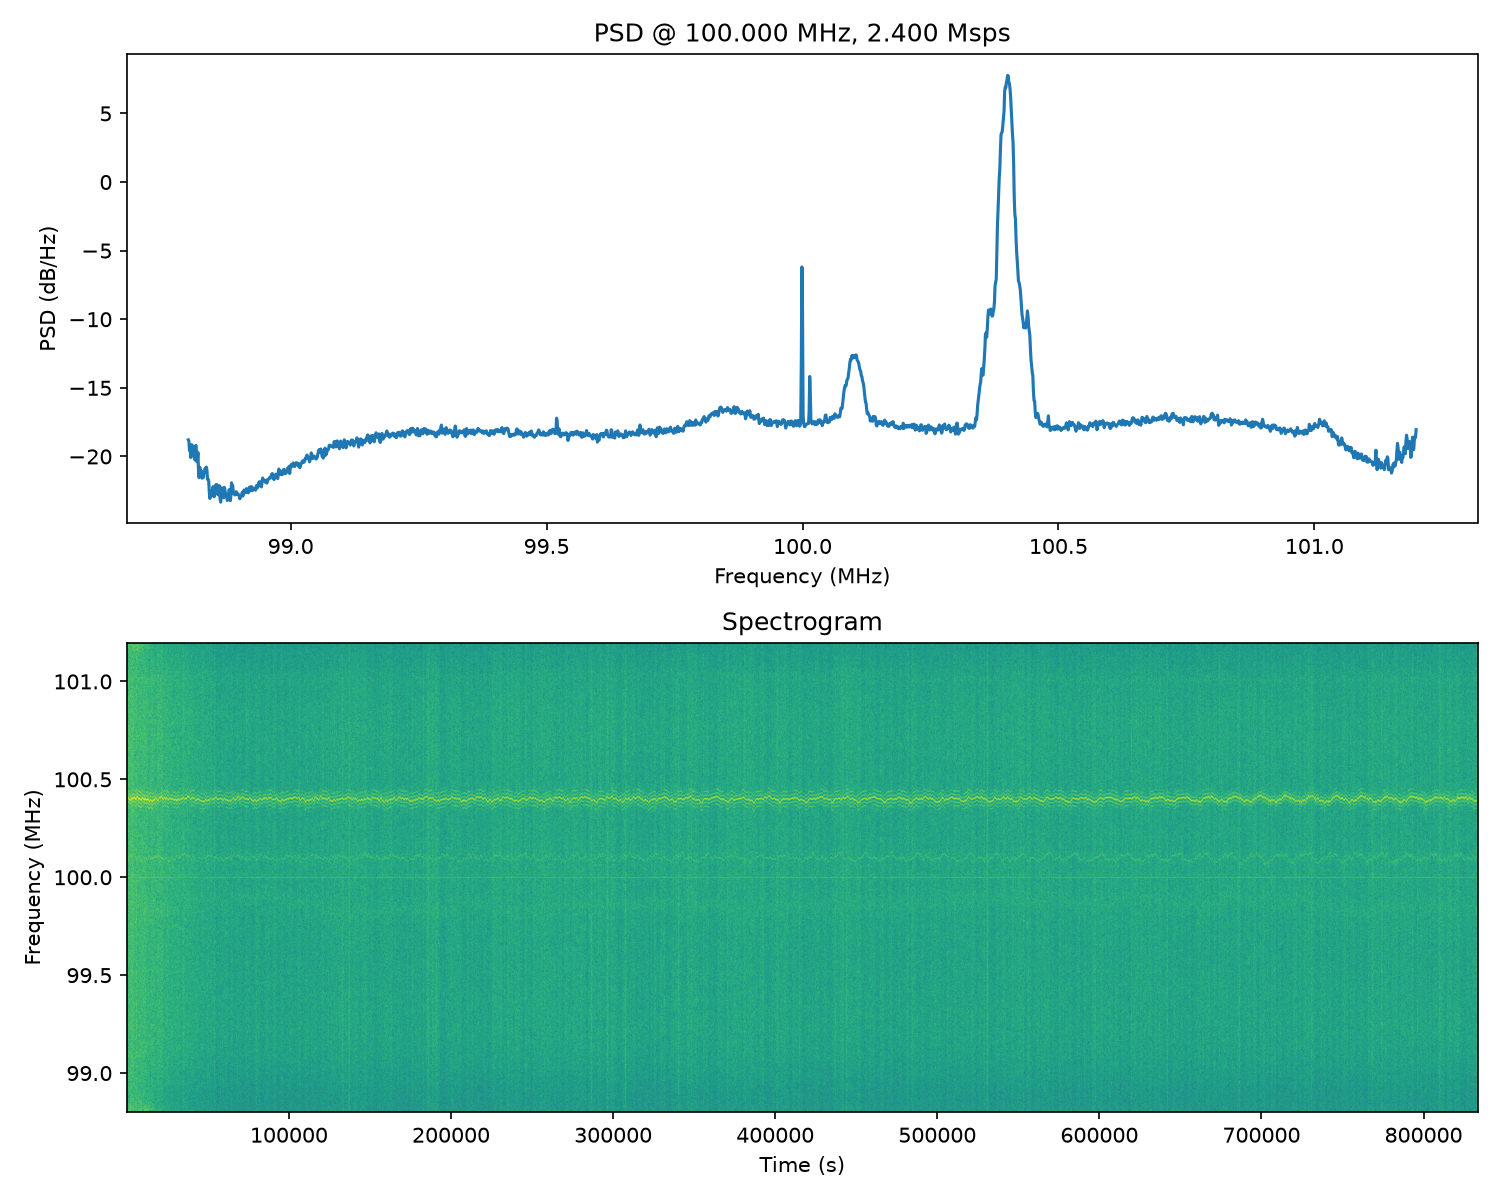
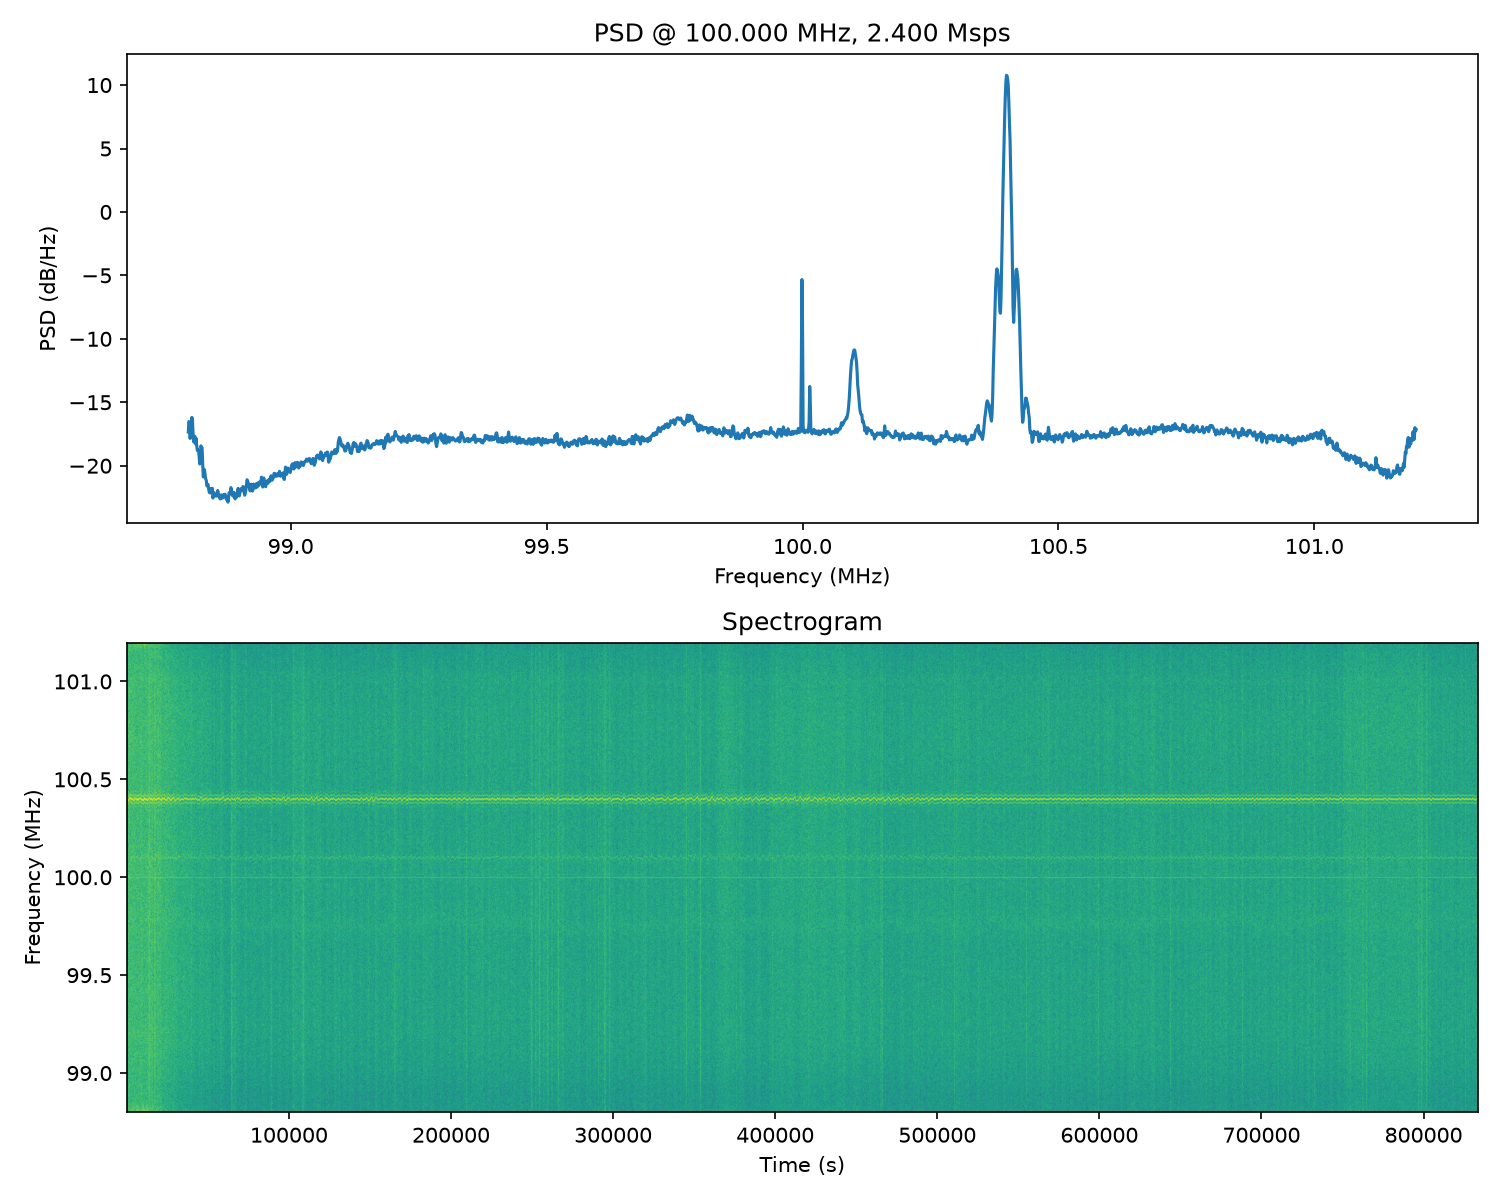
updated scripts to support server/client config, updated readme

diff --git a/README.md b/README.md
@@ -1,11 +1,31 @@
 
 This receives IQ data streamed from an RT-SDR dongle over TCP (using rtl-tcp) and plots a PSD and Spectrograph. Implemented in both python and C++. FFT is calculated using Numpy and KissFFT respectively.
 
-You should run `scripts/restart_rtl_server.sh` on the server that has the USB dongle first.
-
-Note: `--nfft N` enables Welch's method. the capture is split into overlapping N-sample segments (50% overlap), each Hann-windowed and FFT'd, and the power spectra are averaged before converting to dB. More segments equals less noisy noise floor, at the cost of frequency resolution (bin width becomes sampleRate/N instead of sampleRate/n).
-
  - `Fc=100MHz` 
  - `Fs=2.4GHz`
 
 ![](plot.png)
+
+## Quickstart
+
+1. Clone this repo to both the server (the machine with the RTL SDR USB dongle) and client (can be the same machine)
+1. Install `rtl-sdr`  on the server:
+
+    ```
+    sudo apt update
+    sudo apt install rtl-sdr librtlsdr-dev
+    ```
+
+1. Disable the default DVB USB dongle driver:
+
+    ```
+    echo 'blacklist dvb_usb_rtl28xxu' | sudo tee /etc/modprobe.d/blacklist-dvb_usb_rtl28xxu.conf
+    ```
+
+1. Run `scripts/restart_rtl_server.sh` on the server. Check for errors.
+1. Run `scripts/test_cpp.sh` or `scripts/test_python.sh` on the client.
+
+----
+
+Note: `--nfft N` enables Welch's method. the capture is split into overlapping N-sample segments (50% overlap), each Hann-windowed and FFT'd, and the power spectra are averaged before converting to dB. More segments equals less noisy noise floor, at the cost of frequency resolution (bin width becomes sampleRate/N instead of sampleRate/n).
+